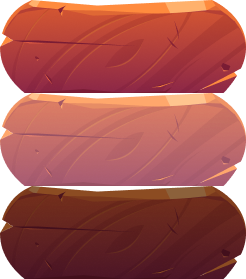
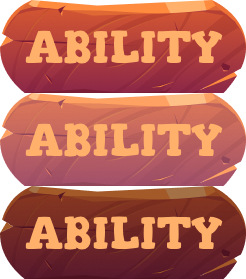
new battle buttons

Changed region(s): [[0.0854, 0.4301, 0.9106, 0.5735], [0.0854, 0.7742, 0.9106, 0.9176], [0.0854, 0.086, 0.9106, 0.2294]]

diff --git a/Game/Source/UIModule.cpp b/Game/Source/UIModule.cpp
@@ -85,7 +85,10 @@ bool UIModule::Start()
 	returnButtonTexture = app->tex->Load("Assets/UI/returnButton.png");
 	uiSpriteTexture = app->tex->Load("Assets/UI/UI_SpriteSheet.png");
 	eKeyTexture = app->tex->Load("Assets/UI/eKey.png");
-	battleButtonTexture = app->tex->Load("Assets/UI/battleButtonTexture.png");
+	attackButtonTexture = app->tex->Load("Assets/UI/attackbattleButton.png");
+	abilityButtonTexture = app->tex->Load("Assets/UI/abilitybattleButton.png");
+	moveButtonTexture = app->tex->Load("Assets/UI/movebattleButton.png");
+	skipButtonTexture = app->tex->Load("Assets/UI/skipbattleButton.png");
 	
 
 	mainmenu_play_button =		   (GuiButton*)app->guiManager->CreateGuiControl(GuiControlType::BUTTON, 1, playButtonTexture, "", { 720, 400, 478, 220 }, this);
@@ -112,10 +115,10 @@ bool UIModule::Start()
 	pausemenuCombat_return_button =		(GuiButton*)app->guiManager->CreateGuiControl(GuiControlType::BUTTON, 102, returnButtonTexture, "", { 800, 950, 340,89 }, this);
 	pausemenuCombat_quit_button =		(GuiButton*)app->guiManager->CreateGuiControl(GuiControlType::BUTTON, 103, textureA, "Quit", { 1620, 255, 120, 30 }, this);
 
-	combat_attack_button =  (GuiButton*)app->guiManager->CreateGuiControl(GuiControlType::BUTTON, 16, battleButtonTexture, "Attack", { 100, 780, 100, 30 }, app->battleManager);
-	combat_ability_button = (GuiButton*)app->guiManager->CreateGuiControl(GuiControlType::BUTTON, 17, battleButtonTexture, "Ability", { 100, 815, 100, 30 }, app->battleManager);
-	combat_move_button =	(GuiButton*)app->guiManager->CreateGuiControl(GuiControlType::BUTTON, 18, battleButtonTexture, "Move", { 100, 850, 100, 30 }, app->battleManager);
-	combat_endTurn_button = (GuiButton*)app->guiManager->CreateGuiControl(GuiControlType::BUTTON, 19, battleButtonTexture, "End Turn", { 100, 885, 100, 30 }, app->battleManager);
+	combat_attack_button =  (GuiButton*)app->guiManager->CreateGuiControl(GuiControlType::BUTTON, 16, attackButtonTexture, "", { 300, 950, 246, 93 }, app->battleManager);
+	combat_ability_button = (GuiButton*)app->guiManager->CreateGuiControl(GuiControlType::BUTTON, 17, abilityButtonTexture, "",{ 595, 950, 246, 93 }, app->battleManager);
+	combat_move_button =	(GuiButton*)app->guiManager->CreateGuiControl(GuiControlType::BUTTON, 18, moveButtonTexture, "",{ 879, 950, 246, 93 }, app->battleManager);
+	combat_endTurn_button = (GuiButton*)app->guiManager->CreateGuiControl(GuiControlType::BUTTON, 19, skipButtonTexture, "", { 57, 960, 196, 84 }, app->battleManager);
 
 	dialog_option1_button = (GuiButton*)app->guiManager->CreateGuiControl(GuiControlType::BUTTON, 12, textureA, "", { 100, 900, 800, 30 }, app->scene);
 	dialog_option2_button = (GuiButton*)app->guiManager->CreateGuiControl(GuiControlType::BUTTON, 13, textureA, "", { 100, 950, 800, 30 }, app->scene);

diff --git a/Game/Source/Fonts.cpp b/Game/Source/Fonts.cpp
@@ -34,7 +34,7 @@ bool Fonts::Start() {
 	gameFont = LoadTTF("Assets/fonts/Cartoonero.ttf", 32); 
 	gameFontNotThatBig = LoadTTF("Assets/fonts/Cartoonero.ttf", 64);
 	gameFontBig = LoadTTF("Assets/fonts/Strange Tales.ttf", 128);
-	battleFont = LoadTTF("Assets/fonts/aArang.ttf", 64);
+	battleFont = LoadTTF("Assets/fonts/aArang.ttf", 48);
 
 	return true; 
 

diff --git a/Game/Source/GuiButton.cpp b/Game/Source/GuiButton.cpp
@@ -110,7 +110,6 @@ bool GuiButton::Draw(Render* render)
 		break;
 	}
 
-	/*app->fonts->LoadRenderedParagraph(bounds, app->fonts->gameFont, text.GetString(), { 255,255,255,255 }, bounds.w - 10);*/
 	app->fonts->DrawText(text.GetString(), bounds.x + bounds.w / 4, bounds.y, bounds.w, bounds.h, { 255,255,255 }, app->fonts->gameFont, true);
 
 	return false;

diff --git a/Game/Source/UIModule.h b/Game/Source/UIModule.h
@@ -204,7 +204,10 @@ public:
 	SDL_Texture* continueButtonsTexture;
 	SDL_Texture* returnButtonTexture;
 	SDL_Texture* eKeyTexture;
-	SDL_Texture* battleButtonTexture;
+	SDL_Texture* attackButtonTexture;
+	SDL_Texture* abilityButtonTexture;
+	SDL_Texture* moveButtonTexture;
+	SDL_Texture* skipButtonTexture;
 
 	SDL_Texture* pauseButtonsTexture;
 
